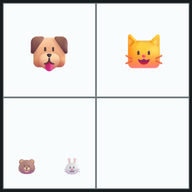
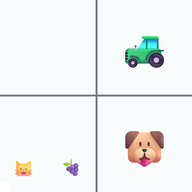
Add files via upload

diff --git a/index.html b/index.html
@@ -86,6 +86,9 @@ input{flex:1;min-width:0;font:inherit;font-size:1rem;padding:12px 14px;border-ra
 .palette{display:grid;grid-template-columns:repeat(10,minmax(0,1fr));gap:3px}
 .palette button{font-size:1.2rem;height:34px;border-radius:8px;border:1px solid var(--outline-variant)}
 .palette button.used{border:2px solid var(--primary);background:var(--primary-container)}
+.aboutlink{font-size:.85rem;padding:8px 14px;border-radius:18px;color:var(--on-surface-variant)}
+.mbox h3{margin:16px 0 4px;font-size:1rem}
+.mbox pre{white-space:pre-wrap;font-size:.72rem;line-height:1.4;background:var(--surface-container);padding:10px;border-radius:12px;margin:6px 0}
 .confbtns{display:flex;gap:8px}
 .confbtns button{flex:1;flex-direction:column;gap:6px;padding:14px 4px;border-radius:16px;background:var(--secondary-container);color:var(--on-secondary-container);font-size:.85rem;font-weight:500}
 .confbtns .ic svg{width:28px;height:28px}
@@ -133,7 +136,7 @@ button.ci{border:0;padding:0;cursor:pointer;color:inherit}
   <div class="mhead"><strong data-i18n="language"></strong><button class="mclose tonal" data-icon="close"></button></div>
   <input id="langsearch" type="search" autocomplete="off" spellcheck="false" style="width:100%;margin-bottom:10px">
   <div id="langlist" class="optlist"></div>
-  <p class="hint" style="text-align:center"><a href="licenses.html" target="_blank" rel="noopener">flag-icons · MIT</a></p>
+  <p style="text-align:center;margin:14px 0 0"><button id="aboutBtn" class="aboutlink" aria-label="Licenses">ⓘ Licenses</button></p>
 </div></div>
 
 <div class="modal" id="mset" hidden role="dialog" aria-modal="true"><div class="mbox">
@@ -156,6 +159,24 @@ button.ci{border:0;padding:0;cursor:pointer;color:inherit}
   <div class="winsticker" id="winSticker"></div>
   <p id="winMsg"></p>
   <button id="winNew" class="filled pill"><span data-icon="add"></span><span data-i18n="newPuzzle"></span></button>
+</div></div>
+
+<div class="modal" id="mabout" hidden role="dialog" aria-modal="true"><div class="mbox">
+  <div class="mhead"><strong>SudoKids</strong><button class="mclose tonal" data-icon="close"></button></div>
+  <p class="hint">© Geraszka · Open-source licenses</p>
+  <h3>flag-icons · MIT License</h3>
+  <p class="hint">Flag images: github.com/lipis/flag-icons</p>
+  <pre>The MIT License (MIT)
+
+Copyright (c) 2013 Panayiotis Lipiridis
+
+Permission is hereby granted, free of charge, to any person obtaining a copy of this software and associated documentation files (the "Software"), to deal in the Software without restriction, including without limitation the rights to use, copy, modify, merge, publish, distribute, sublicense, and/or sell copies of the Software, and to permit persons to whom the Software is furnished to do so, subject to the following conditions:
+
+The above copyright notice and this permission notice shall be included in all copies or substantial portions of the Software.
+
+THE SOFTWARE IS PROVIDED "AS IS", WITHOUT WARRANTY OF ANY KIND, EXPRESS OR IMPLIED, INCLUDING BUT NOT LIMITED TO THE WARRANTIES OF MERCHANTABILITY, FITNESS FOR A PARTICULAR PURPOSE AND NONINFRINGEMENT. IN NO EVENT SHALL THE AUTHORS OR COPYRIGHT HOLDERS BE LIABLE FOR ANY CLAIM, DAMAGES OR OTHER LIABILITY, WHETHER IN AN ACTION OF CONTRACT, TORT OR OTHERWISE, ARISING FROM, OUT OF OR IN CONNECTION WITH THE SOFTWARE OR THE USE OR OTHER DEALINGS IN THE SOFTWARE.</pre>
+  <h3>Material Icons · Apache License 2.0</h3>
+  <p class="hint">Some interface icons (add, close, replay, undo, check, star, trophy) are Google Material Icons, licensed under the Apache License, Version 2.0 (www.apache.org/licenses/LICENSE-2.0).</p>
 </div></div>
 
 <div class="modal" id="mcoll" hidden role="dialog" aria-modal="true"><div class="mbox">
@@ -279,7 +300,7 @@ var level=parseInt(lsGet('sudokuLevel'),10);if(!(level>=1&&level<=3))level=2;
 var boardEl=$('board'),msgEl=$('msg'),pad=$('pad'),noteBtn=$('notebtn'),collBtn=$('collBtn');
 
 // --- Felugró ablakok ---
-var MODALS=['mlang','mset','mconf','mwin','mcoll'];
+var MODALS=['mlang','mset','mconf','mwin','mcoll','mabout'];
 function openM(id){closeM();$(id).hidden=false;}
 function closeM(){MODALS.forEach(function(id){$(id).hidden=true;});}
 function anyOpen(){return MODALS.some(function(id){return !$(id).hidden;});}
@@ -589,6 +610,7 @@ $('cRestart').addEventListener('click',function(){pendingLevel=null;closeM();sta
 $('cNew').addEventListener('click',function(){closeM();applyPending();start(makePuzzle(),true);});
 $('cCancel').addEventListener('click',function(){pendingLevel=null;closeM();});
 $('zoom').addEventListener('click',hideZoom);
+$('aboutBtn').addEventListener('click',function(){openM('mabout');});
 $('winNew').addEventListener('click',function(){closeM();start(makePuzzle(),true);});
 collBtn.addEventListener('click',function(){renderColl();$('codemsg').textContent='';$('codein').value='';openM('mcoll');});
 $('undoBtn').addEventListener('click',undo);
